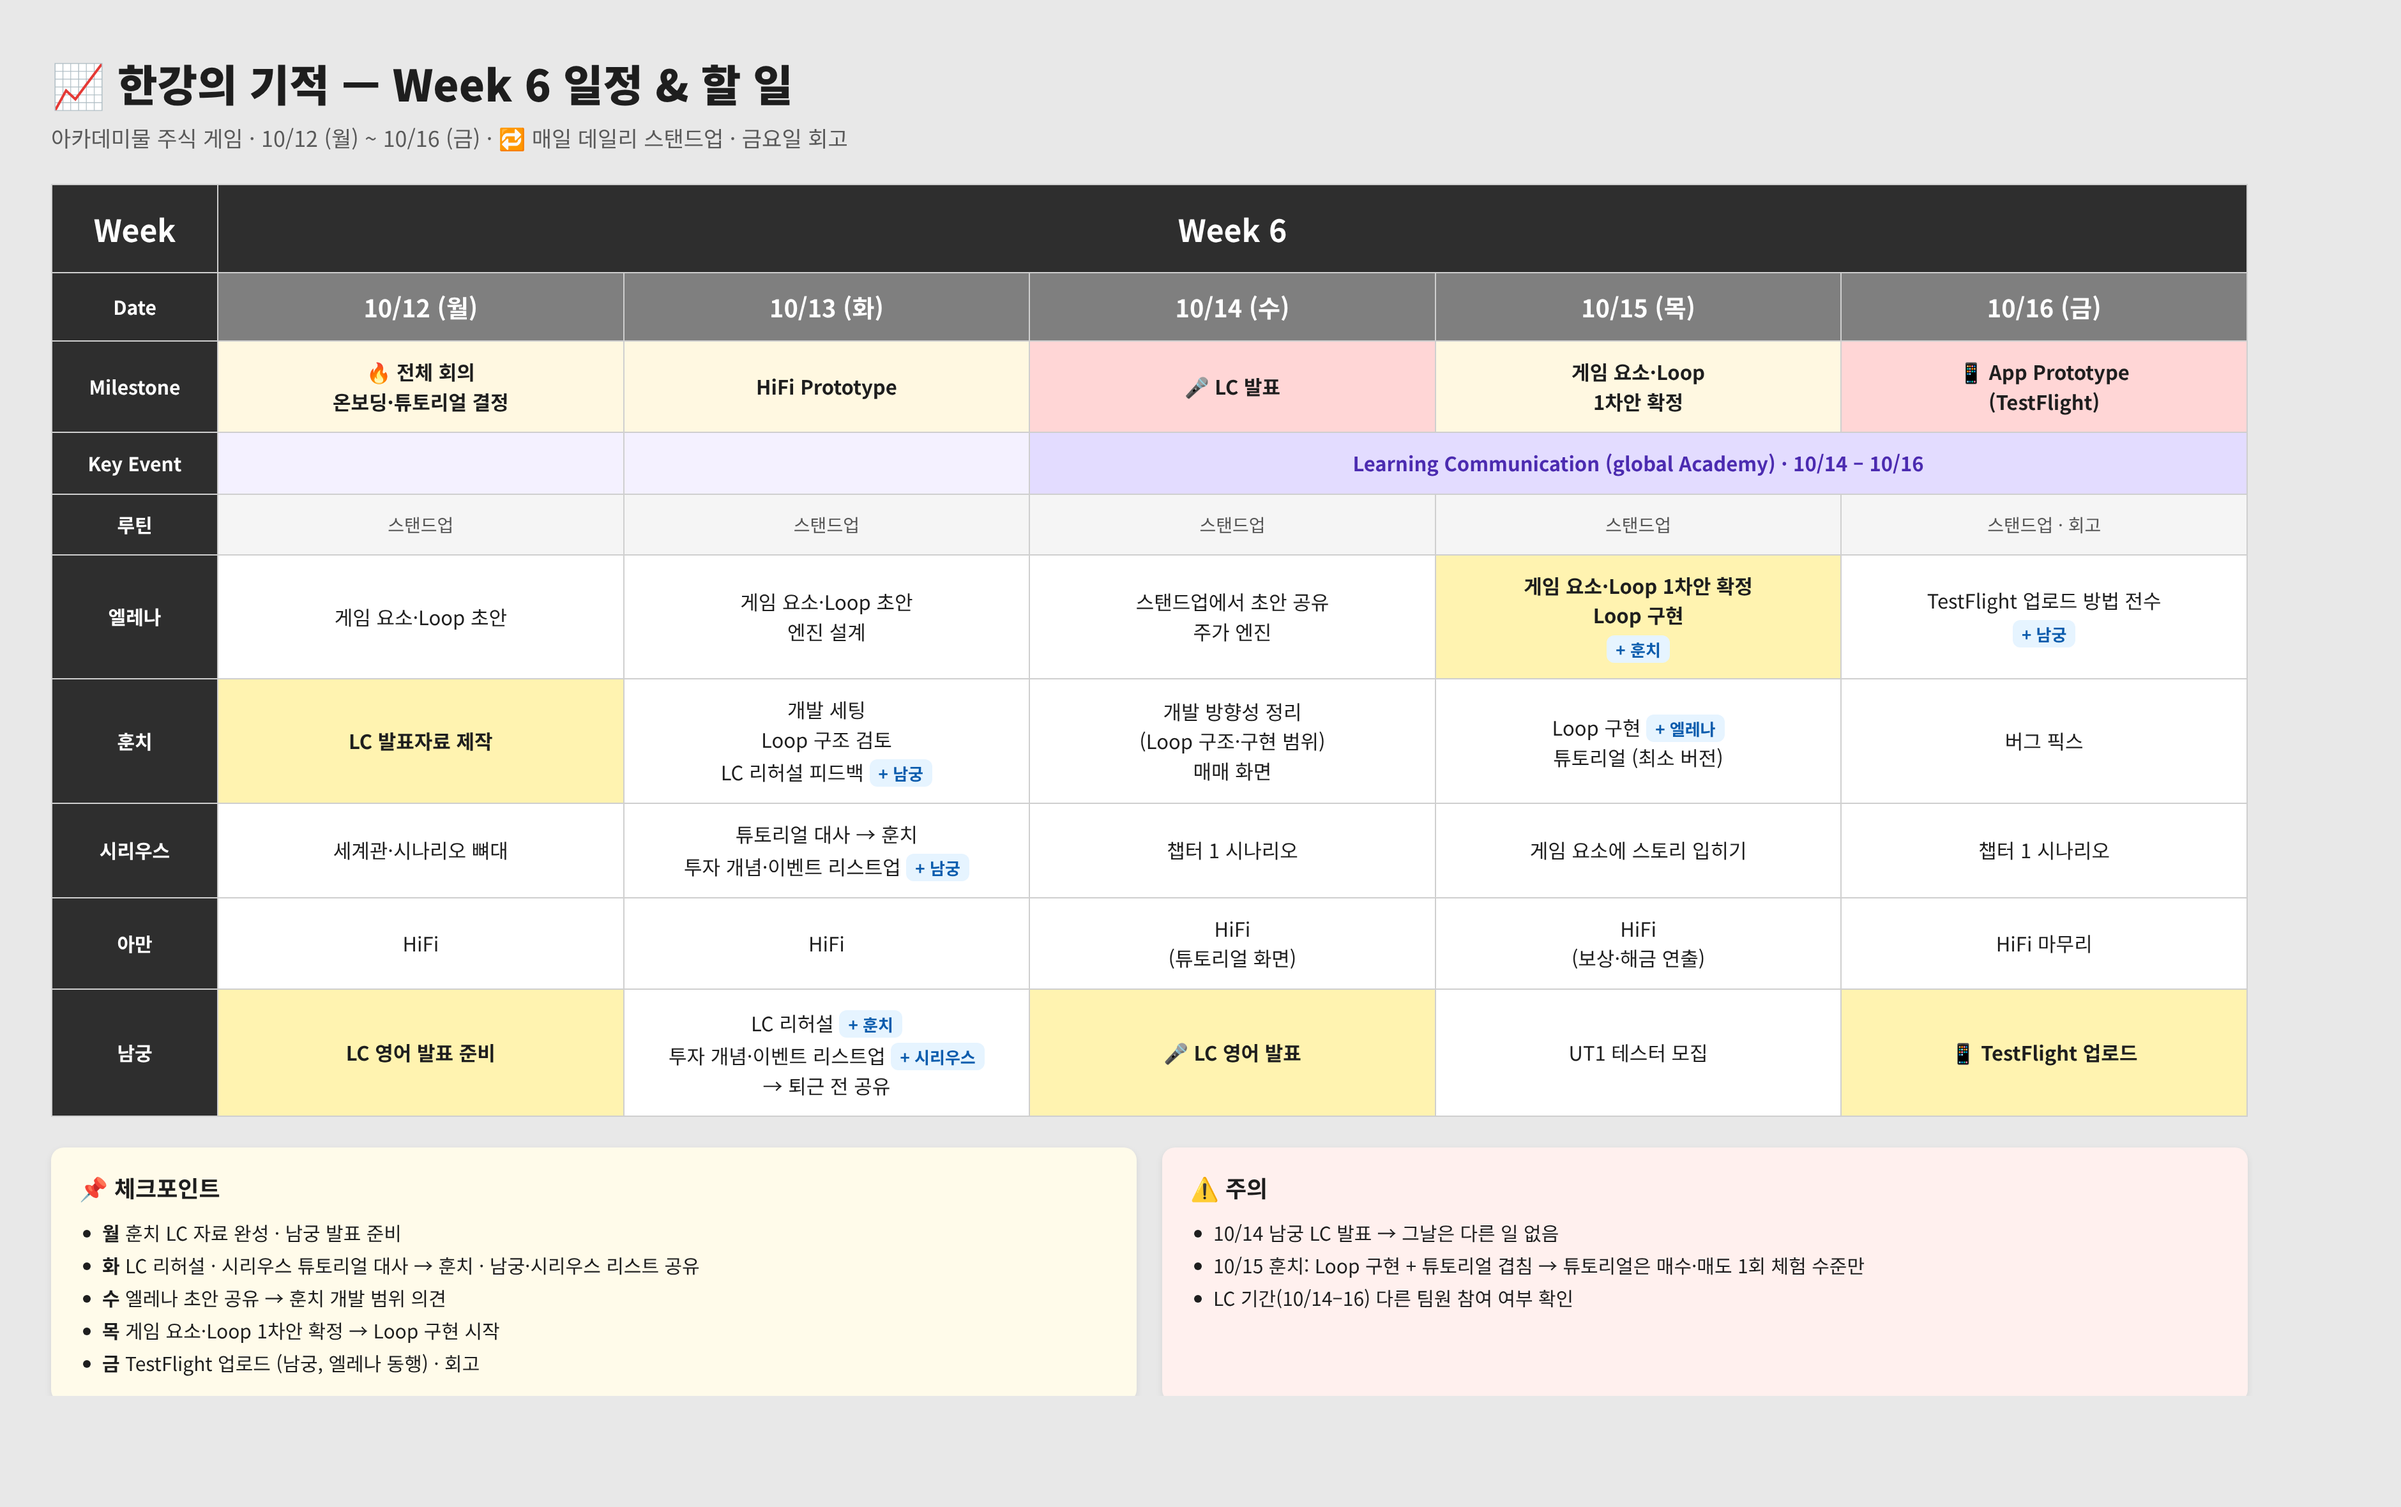
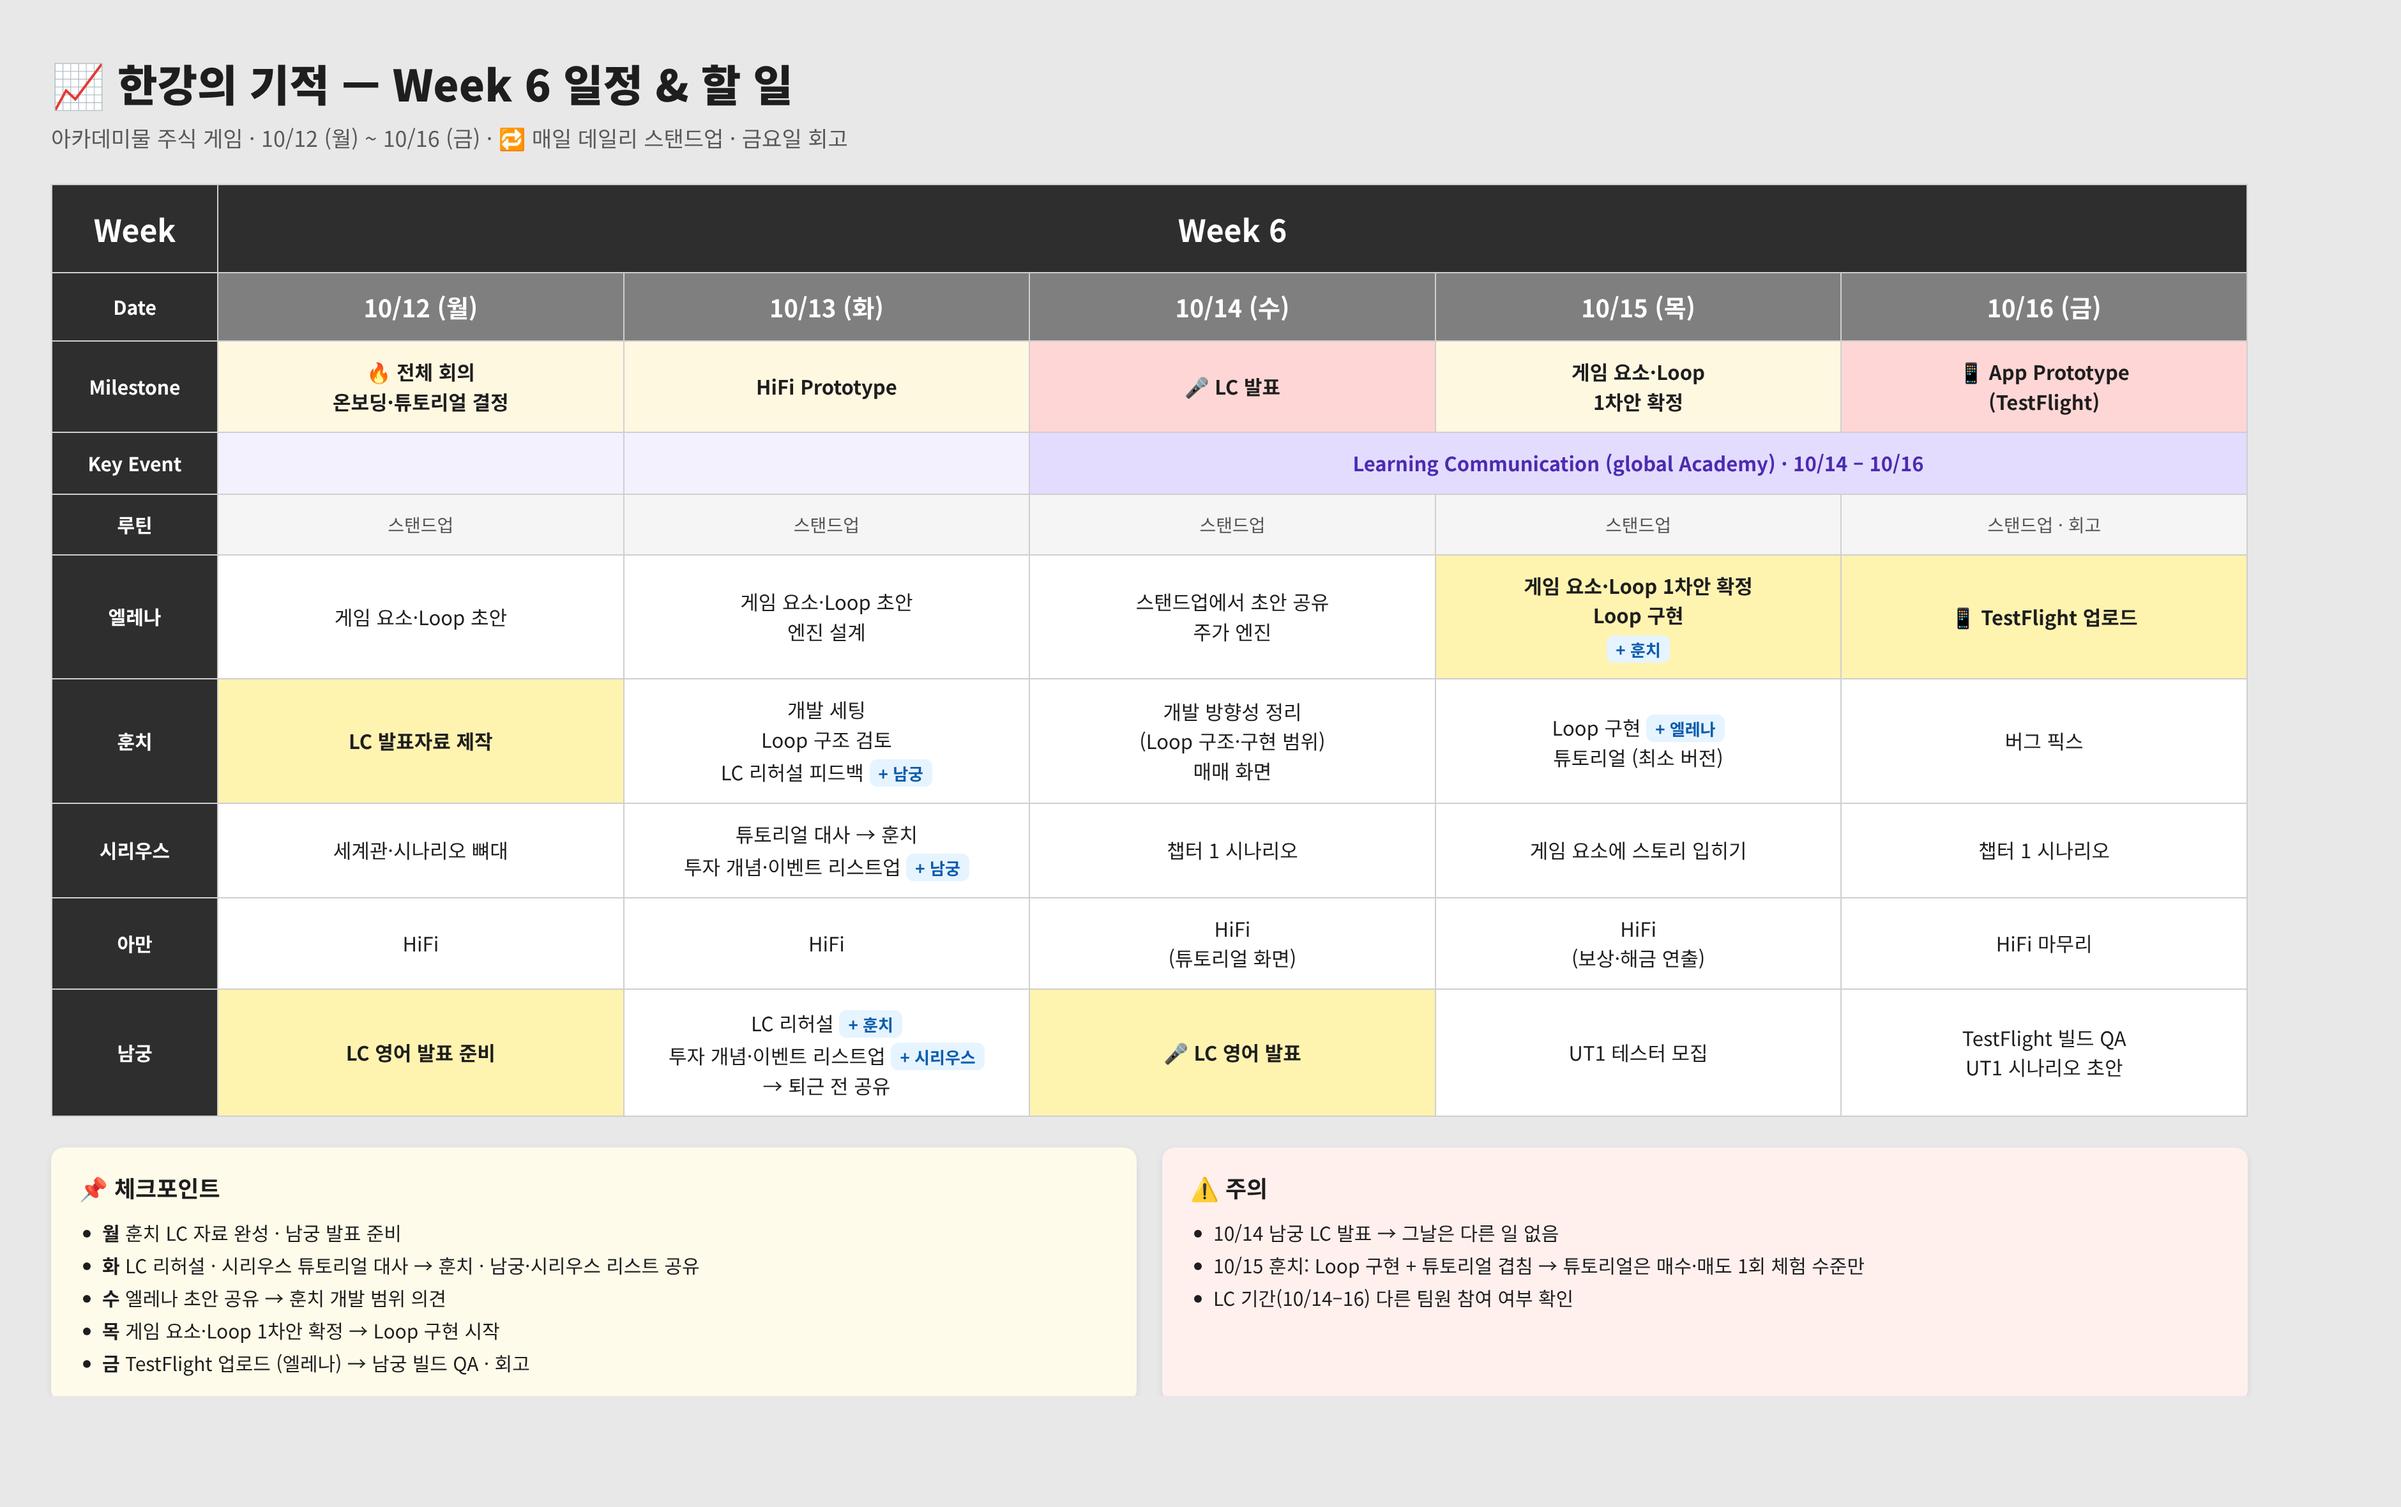
Week 6 schedule: Elena handles TestFlight upload
Claude-Session: https://claude.ai/code/session_01KncY7HRAQxZkcjScPh9xov

Changed region(s): [[0.7468, 0.6496, 0.9335, 0.7424], [0.7468, 0.3712, 0.9335, 0.464], [0.1245, 0.897, 0.2178, 0.928]]

diff --git a/docs/schedule/week6.html b/docs/schedule/week6.html
@@ -46,7 +46,7 @@ col.label{width:130px}
 <td>게임 요소·Loop 초안<br>엔진 설계</td>
 <td>스탠드업에서 초안 공유<br>주가 엔진</td>
 <td class="hi">게임 요소·Loop 1차안 확정<br>Loop 구현<br><span class="pair">+ 훈치</span></td>
-<td>TestFlight 업로드 방법 전수<br><span class="pair">+ 남궁</span></td></tr>
+<td class="hi">📱 TestFlight 업로드</td></tr>
 <tr class="person"><td class="rowlab name">훈치</td>
 <td class="hi">LC 발표자료 제작</td>
 <td>개발 세팅<br>Loop 구조 검토<br>LC 리허설 피드백 <span class="pair">+ 남궁</span></td>
@@ -70,7 +70,7 @@ col.label{width:130px}
 <td>LC 리허설 <span class="pair">+ 훈치</span><br>투자 개념·이벤트 리스트업 <span class="pair">+ 시리우스</span><br>→ 퇴근 전 공유</td>
 <td class="hi">🎤 LC 영어 발표</td>
 <td>UT1 테스터 모집</td>
-<td class="hi">📱 TestFlight 업로드</td></tr>
+<td>TestFlight 빌드 QA<br>UT1 시나리오 초안</td></tr>
 </table>
 <div class="notes">
 <div class="card"><h3>📌 체크포인트</h3><ul>
@@ -78,7 +78,7 @@ col.label{width:130px}
 <li><b>화</b> LC 리허설 · 시리우스 튜토리얼 대사 → 훈치 · 남궁·시리우스 리스트 공유</li>
 <li><b>수</b> 엘레나 초안 공유 → 훈치 개발 범위 의견</li>
 <li><b>목</b> 게임 요소·Loop 1차안 확정 → Loop 구현 시작</li>
-<li><b>금</b> TestFlight 업로드 (남궁, 엘레나 동행) · 회고</li>
+<li><b>금</b> TestFlight 업로드 (엘레나) → 남궁 빌드 QA · 회고</li>
 </ul></div>
 <div class="card warn"><h3>⚠ 주의</h3><ul>
 <li>10/14 남궁 LC 발표 → 그날은 다른 일 없음</li>
